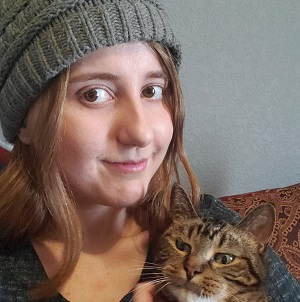
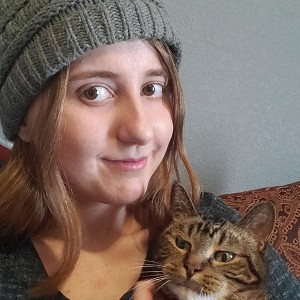
design links json added

diff --git a/about-me.html b/about-me.html
@@ -16,7 +16,7 @@
       <h1>Joanna Gohnert - Portfolio</h1>
       <button id="menu" type="button"></button>
       <nav class="navigation">
-        <a href="https://jgohnert.github.io/portfolio/">Home</a>
+        <a href="https://jgohnert.github.io/Portfolio/">Home</a>
         <a href="#">About Me</a>
         <a href="https://jgohnert.github.io/wdd330/colutyma/index.html" target="_blank">COLUTYMA Website</a>
       </nav>
@@ -24,7 +24,7 @@
     <main>
       <section id="about-me">
         <h2>About Me</h2>
-        <div>
+        <div class="about-content">
             <p>
                 Hello, My name is Joanna Gohnert. 
                 I am a web developer passionate about creating great user experience through web applications.
@@ -33,17 +33,17 @@
                 My goal is to keep learning and developing my skill so I can continue to make my ideas meaningful throught the digital experiences I create.
             </p>
         </div>
-        <div>
-          <p>Me and My Family</p>
-          <img id="my-img" src="images\img-of-me.png" alt="Joanna Gohnert">
-          <img id="my-img" src="images\img-of-family.jpg" alt="Joanna Gohnert's Family">
-          <img id="my-img" src="images\me-and-kitty.jpg" alt="Joanna and Kitty">
+        <div class="about-images">
+          <h3>Me and My Family</h3>
+          <div class="img-gallery">
+            <img class="my-img" src="images\img-of-me.png" alt="Joanna Gohnert">
+            <img class="my-img" src="images\img-of-family.jpg" alt="Joanna Gohnert's Family">
+            <img class="my-img" src="images\me-and-kitty.jpg" alt="Joanna and Kitty">
+          </div> 
         </div>
       </section>
     </main>
     <footer>&copy;Joanna Gohnert | 2026</footer>
-    <script src="scripts/activity-links.js"></script>
-    <script src="scripts/project-links.js"></script>
     <script src="scripts/menu.js"></script>
   </body>
 </html>

diff --git a/index.html b/index.html
@@ -16,14 +16,18 @@
       <h1>Joanna Gohnert - Portfolio</h1>
       <button id="menu" type="button"></button>
       <nav class="navigation">
-        <a href="https://jgohnert.github.io/portfolio/">Home</a>
-        <a href="about-me.html">About Me</a>
-        <a href="https://jgohnert.github.io/wdd330/colutyma/index.html" target="_blank">COLUTYMA Website</a>
+        <a href="https://jgohnert.github.io/Portfolio/">Home</a>
+        <a href="https://jgohnert.github.io/Portfolio/about-me.html">About Me</a>
+        <a href="#" target="_blank">Contact Information</a>
+        <a href="#" target="_blank">Resume</a>
       </nav>
     </header>
     <main>
+      <section id="designProjects">
+        <h2>Design Projects</h2>
+      </section>
       <section id="projects">
-        <h2>Projects</h2>
+        <h2>Web Projects</h2>
       </section>
       <section>
         <h2>Activities</h2>
@@ -33,6 +37,7 @@
     <footer>&copy;Joanna Gohnert | 2026</footer>
     <script src="scripts/activity-links.js"></script>
     <script src="scripts/project-links.js"></script>
+    <script src="scripts/design-links.js"></script>
     <script src="scripts/menu.js"></script>
   </body>
 </html>

diff --git a/scripts/design-links.js b/scripts/design-links.js
@@ -1,0 +1,34 @@
+
+const designLinksURL = 'https://jgohnert.github.io/wdd330/data/design-links.json';
+
+const allDesignProjects = document.querySelector('#designProjects');
+
+async function getProjectLinks() {
+    const response = await fetch(designLinksURL);
+    const data = await response.json();
+    const projectActivities = data.projects;
+
+    displayDesignProjects(projectActivities);
+}
+
+const displayDesignProjects = (projectActivities) => {
+    projectActivities.forEach((project) => {
+
+        project.links.forEach((link) => {
+            let linkList = document.createElement('a');
+
+            linkList.href = link.url.startsWith('http')
+                ? link.url
+                : 'https://' + link.url;
+
+            linkList.textContent = link.title;
+            linkList.classList.add('project-link');
+            linkList.target = '_blank';
+
+            allProjects.appendChild(linkList);
+        });
+
+    });
+};
+
+getProjectLinks();

diff --git a/styles/base.css b/styles/base.css
@@ -143,11 +143,34 @@ section a:hover {
     border-radius: 4px;
 }
 
-#my-img {
-    max-height: 200px;
+#about-me {
+    text-align: center;
+    padding: 20px;
 }
 
-#about-me {
-    display: row;
-    grid-row: 1fr 1fr;
+.about-content {
+    max-width: 800px;
+    margin: 0 auto 30px;
+    line-height: 1.2;
+}
+
+.about-images h3 {
+    margin-bottom: 20px;
+}
+
+.img-gallery {
+    display: flex;
+    justify-content: center;
+    align-items: center;
+    flex-wrap: wrap;
+    gap: 20px;
+}
+
+.about-images .my-img {
+    width: 200px;
+}
+
+img {
+    border: var(--border);
+    border-radius: 4px;
 }
